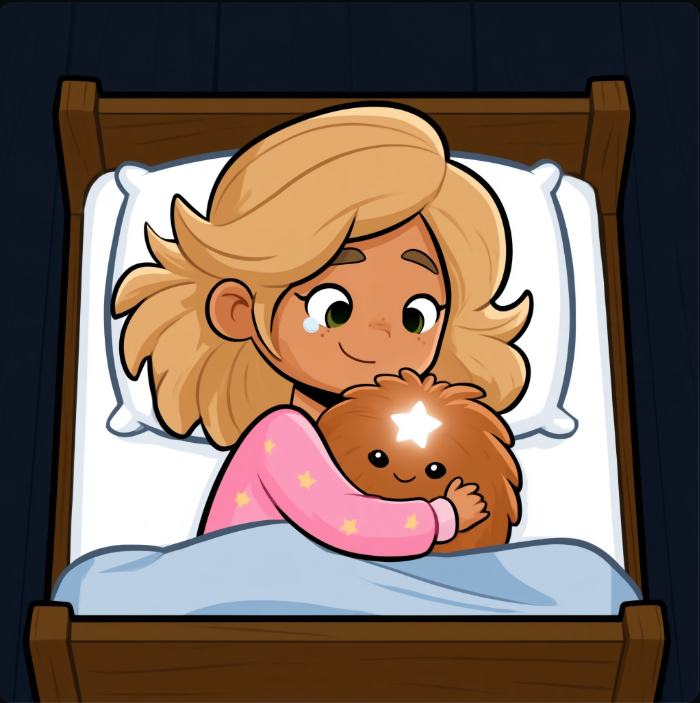
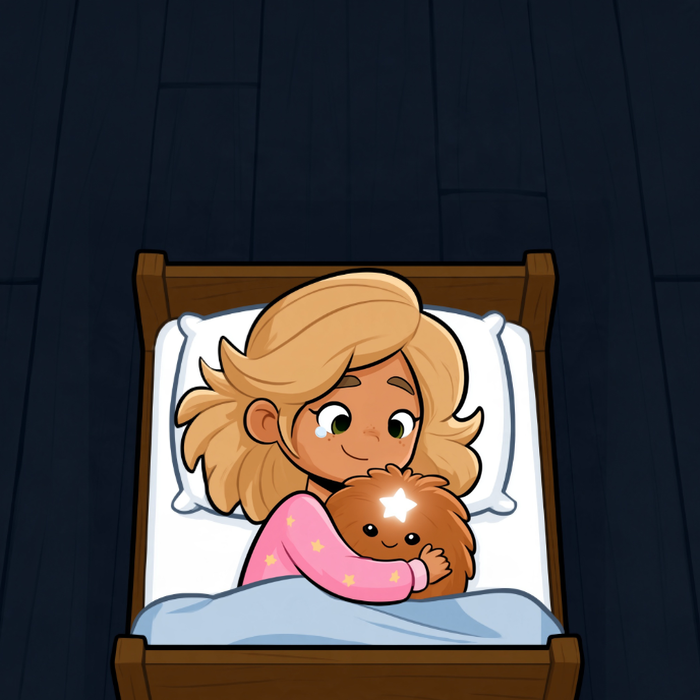
Strony 8 i 26: miejsce na tekst (kandydaci) / Pages 8 and 26: room for text (candidates)
Claude-Session: https://claude.ai/code/session_01J5W66UGC8pnfEPSKiA9nWX

diff --git a/warstwy/twarze.py b/warstwy/twarze.py
@@ -1,0 +1,43 @@
+# Strona z nowymi twarzami na planszy innej strony. / A page with new faces on another page's plate.
+# Przykład: strona 26 = pomniejszona strona 8 (nowa plansza) + twarze ze strony 26.
+# Example: page 26 = shrunken page 8 (new plate) + faces from page 26.
+# Użycie / usage: python3 twarze.py s26.json
+import json, sys, numpy as np
+from PIL import Image, ImageFilter, ImageDraw
+
+def load(p, crop=6):
+    im = Image.open(p).convert('RGB'); w, h = im.size
+    return im.crop((crop, crop, w - crop, min(h, w) - crop)).resize((700, 700), Image.LANCZOS)
+
+def dopasuj(plate, orig, s0, box):
+    # Szuka skali i położenia oryginału w planszy. / Finds the scale and position of the original in the plate.
+    P = np.array(plate.convert('L')).astype(float)
+    best = None
+    for s in np.arange(s0 - 0.02, s0 + 0.0201, 0.002):
+        n = int(round(700 * s))
+        O = np.array(orig.convert('L').resize((n, n), Image.LANCZOS)).astype(float)
+        x0, y0, x1, y1 = [int(v * s) for v in box]
+        patch = O[y0:y1, x0:x1]
+        ex, ey = (700 - n) // 2, 700 - n
+        for dx in range(ex - 12, ex + 13):
+            for dy in range(ey - 12, ey + 13):
+                if dy + y1 > 700 or dx + x1 > 700 or dy + y0 < 0 or dx + x0 < 0: continue
+                d = np.abs(P[dy + y0:dy + y1, dx + x0:dx + x1] - patch).mean()
+                if best is None or d < best[0]: best = (d, round(float(s), 3), dx, dy)
+    return best
+
+cfg = json.load(open(sys.argv[1]))
+plate = load(cfg['plansza']); orig = load(cfg['oryginal']); faces = load(cfg['twarze'])
+if 'dopasowanie' in cfg:
+    s, dx, dy = cfg['dopasowanie']
+else:
+    d, s, dx, dy = dopasuj(plate, orig, cfg.get('skala', 0.72), cfg.get('porownaj', [100, 150, 600, 650]))
+    print('dopasowanie / match:', s, dx, dy, 'błąd / error %.2f' % d)
+n = int(round(700 * s))
+F = faces.resize((n, n), Image.LANCZOS)
+m = Image.new('L', (700, 700), 0)
+ImageDraw.Draw(m).rectangle(cfg['obszar'], fill=255)  # obszar twarzy w oryginale / face area in the original
+m = m.filter(ImageFilter.GaussianBlur(cfg.get('miekkosc', 10))).resize((n, n), Image.LANCZOS)
+out = plate.copy(); out.paste(F, (dx, dy), m)
+out.save(cfg['wynik'])
+print('ok', cfg['wynik'])

diff --git a/prompty/STAN.md b/prompty/STAN.md
@@ -14,7 +14,7 @@ Ostatnia aktualizacja / last update: 15.11.2026, 19:15
 | podwórko / playground | `warstwy/zrodla/plansza_podworko.png` | b4633e1c-3a6b-4568-95ed-bb836275d3cf/0 | 28 (17) |
 | ogród ze strony 3 / garden | `warstwy/zrodla/plansza_ogrod.png` | 649eacce-628e-4193-8f2d-026f76e316d4/0 | 29, 30 (wieczór), okładka |
 | sypialnia ze strony 7 / bedroom | `warstwy/zrodla/plansza_sypialnia.png` | aa753681-839b-47b6-9d96-c472043cb4a9/0 | 27 (noc) |
-| łóżko ze strony 8 / bed | (bez planszy — edycja strony 8) | 61abad49-3a5a-4e8e-9138-459f490f01e4/0 | 26 = c3cb5766-2ded-48fe-be21-508b060ad7cf/0 |
+| łóżko ze strony 8 / bed | `warstwy/zrodla/plansza_lozko.png` | 264cb94e-df21-420b-958a-6038f8dfe847/1 (nowa strona 8) | 8, 26 (twarze z c3cb5766/0) |
 
 ## Pliki / Files
 - `warstwy/sklej.py` + `warstwy/sNN.json` → `cd warstwy && python3 sklej.py sNN.json` (`pip install --break-system-packages "rembg[cpu]" scipy`).
@@ -28,7 +28,7 @@ Ostatnia aktualizacja / last update: 15.11.2026, 19:15
 
 ## Następne kroki / Next steps
 1. (zrobione 15.11) akceptacja 26–30 i okładki. / done.
-2. Pytanie do użytkownika: strona 8 i 26 mają mało miejsca na tekst (wąski granatowy pas). Czy zmniejszyć obie w edytorze (Scale ~72%), żeby było więcej granatu u góry? Obie zostaną identyczne.
+2. 15.11: nowe wersje stron 8 i 26 z miejscem na tekst (8 = 264cb94e/1; 26 = `cd warstwy && python3 twarze.py s26.json`) — CZEKAJĄ na ocenę. Po akceptacji dodać 264cb94e/1 do folderu MJ (61abad49/0 i c3cb5766/0 zostają jako źródła dla strony 26).
 3. Porządki w MJ: z folderu „KSIAZKA strony gotowe” usunąć stare strony 19–21 (stare schody).
 4. Potem: strony 1–2 (tytułowa, prawa autorskie), 32 (Lumi — emocje), cała okładka (przód + grzbiet + tył, wymiary z KDP), składanie PDF.
 5. Druk: podmienić zrzuty na pełną jakość z MJ (pobiera użytkownik) i uruchomić sklej.py ponownie.

diff --git a/strony/GOTOWE.md b/strony/GOTOWE.md
@@ -17,6 +17,7 @@ List of pages: candidates (status "czeka" = waiting) and approved pages (status 
 | Strona / Page | Co jest na obrazku / Scene | Job ID | Index | Podgląd / Preview | Status | Uwagi / Notes |
 |---|---|---|---|---|---|---|
 | 3–8 | (zrobione wcześniej przez użytkownika / made earlier by the user) | — | — | `strony/podglad/strona_03..08_podglad.png` | zaakceptowana | strona 8 = 61abad49-3a5a-4e8e-9138-459f490f01e4/0 (szukaj „pajamas” w Organize); 3–7: szukaj w Organize („blocks” = strona 7, 29.09) / page 8 found; 3–7 search in Organize |
+| 8 (nowa) | Strona 8 pomniejszona (72%), dorysowana granatowa podłoga u góry na tekst / Page 8 shrunk, navy floor added for text | 264cb94e-df21-420b-958a-6038f8dfe847 (edycja 61abad49/0) | 1 | `strony/podglad/strona_08_podglad.png` | czeka (15.11) | stara wersja: 61abad49-3a5a-4e8e-9138-459f490f01e4/0 / old version |
 | 9 | Urodziny, Amelia zatyka uszy, pęka balon, kolczasty Lumi / Party, Amelia covers ears, balloon pops, spiky Lumi | 28b911b5-4685-43b0-9b98-815d7156a48a | 0 | `strony/gotowe/strona_09_podglad.png` | zaakceptowana (12.11) | miejsce na tekst u góry ~1/4 / text space at top ~1/4 |
 | 10 | Dzieci i mama wołają do zabawy, Amelia zatyka uszy, kolczasty Lumi / Kids and mum call her to play | 603c11f4-577c-4ee0-a512-cdbbf69f8655 | 0 | `strony/gotowe/strona_10_podglad.png` | zaakceptowana (12.11) | dużo miejsca na tekst u góry / lots of text space at top |
 | 11 | Kuchnia, zła Amelia tupie, sweter na podłodze, babcia, kolczasty Lumi / Kitchen, angry Amelia stomps | 98320287-ce28-461e-bd0f-34014ee9d1e7 | 1 | `strony/gotowe/strona_11_podglad.png` | zaakceptowana (12.11) | wzór amelia_02_zlosc; miejsce na tekst u góry / text space at top |

diff --git a/prompty/postep.md b/prompty/postep.md
@@ -120,3 +120,4 @@ Panel „Add images” (ikonka po lewej od pola promptu). Kolejność (najnowsze
 - Lumi w warstwie z Amelią często wychodzi wielkości jej głowy. Wycinam go osobno wielokątem (`"wytnij": [[x,y],...]`) i zmniejszam. `"usun_biale": [[x0,y0,x1,y1]]` usuwa białą szparę między włosami a Lumi. / Lumi often too big: cut him out with a polygon and scale down.
 - Przy węższym oknie przeglądarki (wysokość 647) duży podgląd ma obrazek w [430,106,934,610] → zrzut 630×630; sklej.py to obsługuje. / Smaller window: zoom region [430,106,934,610].
 - Gwiazdka na koszulce Amelii w warstwach wychodzi czasem pomarańczowa zamiast żółtej. / Shirt star sometimes orange-ish.
+- Miejsce na tekst na stronach 8 i 26 (15.11): edytor raz na stronie 8 (Scale 72%, na dół, mała gumka po górnym pasku, prompt z „one continuous plain dark navy blue floor … filling the whole upper part”). Strona 26 = ta nowa plansza + same twarze ze strony 26 (`warstwy/twarze.py`, sam dopasowuje skalę i położenie). Obie strony dalej identyczne. / Page 8 scaled once in the editor; page 26 = that plate + its own faces via twarze.py.

diff --git a/prompty/log.md b/prompty/log.md
@@ -43,3 +43,5 @@ Every generation: date, page, references, job ID, result. The full prompt is sto
 | 15.11 | plansza sypialni | — (edytor na stronie 7: 2d8601d8-a449-4a57-988e-3c20051c9d75/3) | aa753681-839b-47b6-9d96-c472043cb4a9 (0) | plansza do 27 (lekki cień na podłodze) |
 | 15.11 | 27 (warstwa) | amelia_08_spokoj + lumi_01 | 47839ddb-d8c7-4cea-b68c-d14088115bab (1) | kandydat; Lumi za duży → wycięty osobno i zmniejszony |
 | 15.11 | okładka (warstwa) | amelia_01_radosna_WZOR + lumi_01 | 0a8fefbd-3f90-4a67-bcb3-87b007d60b9e (0) | kandydat |
+| 15.11 | 8 (miejsce na tekst) | — (edytor na stronie 8: Scale 72%, obrazek na dół, gumka po górnym pasku) | 264cb94e-df21-420b-958a-6038f8dfe847 (1) | kandydat; wersje 0, 2, 3 mają widoczny szew / visible seam |
+| 15.11 | 26 | — (twarze.py: nowa strona 8 + twarze z c3cb5766/0) | — | kandydat |
